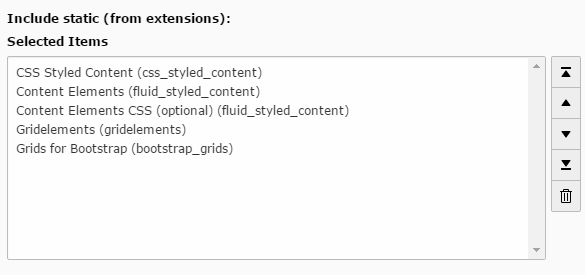
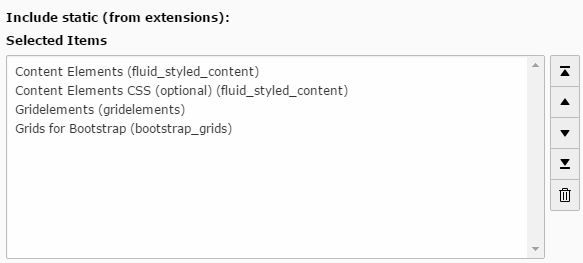
info for fluid_styled_content updated

Changed region(s): [[0.0, 0.1217, 1.0, 1.0], [0.0, 0.0304, 0.4014, 0.0913]]

diff --git a/Documentation/Main/Installation/Index.rst b/Documentation/Main/Installation/Index.rst
@@ -12,11 +12,17 @@ Installation
 
 1. Install the extension bootstrap_grids. If ext:gridelements is not installed, it will be installed automatically.
 
-2. Include the static templates as shown in the screenshot. Keep in mind that the order of templates is important!
+2. Include the static templates as shown in the screenshot. Keep in mind that the order of templates is important.
 
 |img-includestatic|
 
-In TYPO3 7.6.x the fluid_styled_content static templates have to be included **before** the gridelement static templates.
+
+TYPO3 7.6.x and fluid_styled_content
+------------------------------------
+
+The gridelement static templates have to be included after the fluid_styled_content static templates.
 
 |img-includestatic76|
+
+**Attention:** The **header layout** of content elements used in accordion and simple tab elements has to be set to **hidden** to not show up again in the accordion/tab panel.
 
